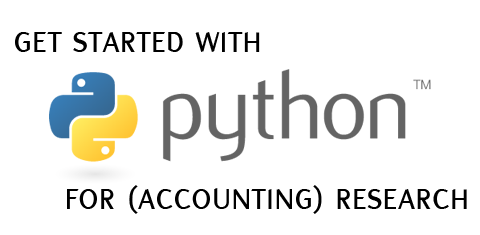
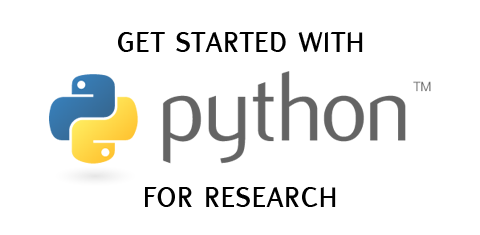
Worked on the readme

diff --git a/README.md b/README.md
@@ -1,6 +1,5 @@
 <h1 align="center">
-   <img src="https://i.imgur.com/LZ4s3zS.png" alt="Python Accounting Research" title="Python Accounting Research GitHub" />
-  <br>
+   <img src="https://i.imgur.com/KZGIDj0.png" alt="Get started with Python for Research" title="Get started with Python for Research" />
 </h1>
 <p align="center">  
  <a href="https://gitter.im/TiesdeKok/PythonAccountingResearch"><img src="https://badges.gitter.im/array-mixer/Lobby.svg"></a>
@@ -11,7 +10,7 @@
 <p align="center">
   Want to learn how to use <strong>Python for (Accounting) Research</strong>? <br>
   This repository has everything that you need to get started! <br><br>
-  <strong>Author:</strong> Ties de Kok (<a href="http://www.TiesdeKok.com">Personal Page</a>)
+  <span style='font-size: 15pt'><strong>Author:</strong> Ties de Kok (<a href="http://www.TiesdeKok.com">Personal Page</a>)</span>
 </p>
 
 ## Table of contents
@@ -24,65 +23,218 @@
   	 * [Jupyter Notebook](#jupyter)
   	 * [Installing packages](#packages)
   * [Tutorial Notebooks](#notebooks)
-     * [Python Basics](#0_python_basics.ipynb)
-     * [Opening files with Python](#0_python_basics.ipynb)
-     * [Handling data with Python](#0_python_basics.ipynb)
-     * [Visualizing data with Python](#0_python_basics.ipynb)
-     * [Web scraping with Python](#0_python_basics.ipynb)
+  	* [Exercises](#exercises)
   * [Code along](#codealong)
      * [Binder](#binder)
      * [Clone repository](#clonerepo)
-  * [Exercises](#exercises)
+  * [Questions](#questions)
   * [License](#license)
   * [Special thanks](#specialthanks)
 
 <h2 id="introduction">Introduction</h2>
 
-This is where the introduction will go. 
+The goal of this GitHub page is to provide you with everything you need to get started with Python for actual research projects.   
+
 <h4 id="audience">Who is this repository for?</h4>
+
+The topics and techniques demonstrated in this repository are primarily oriented towards empirical research projects in fields such as Accounting, Finance, Marketing, Political Science, and other Social Sciences. 
+
+However, many of the basics are also perfectly applicable if you are looking to use Python for any other type of Data Science!
 
 <h4 id="howtouse">How to use this repository?</h4>
 
+This repository is written to facilitate learning by doing. 
+
+<span style="text-decoration: underline"> If you are starting from scratch I recommend the following: </span>
+
+1. Familiarize yourself with the [`Getting your Python setup ready`](#setup) and [`Using Python`](#usingpython) sections below
+2. Check the [`Code along!`](#codealong) section to make sure that you can interactivly use the Jupyter Notebooks 
+3. Work through the [`0_python_basics.ipynb`](0_python_basics.ipynb) notebook and try to get a basics grasp on the Python syntax
+4. Do the "Basic Python tasks" part of the [`exercises.ipynb`](exercises.ipynb) notebook
+5. Work through the [`1_opening_files.ipynb`](#), [`2_handling_data.ipynb`](2_handling_data.ipynb), and [`3_visualizing_data.ipynb`](3_visualizing_data.ipynb) notebooks.  
+   **Note:** the [`2_handling_data.ipynb`](2_handling_data.ipynb) notebook is very comprehensive, feel free to skip the more advanced parts at first.  
+6. Do the "Data handling tasks (+ some plotting)" part of the [`exercises.ipynb`](exercises.ipynb) notebook
+
+If you are interested in web-scraping:
+
+7. Work through the [`4_web_scraping.ipynb`](4_web_scraping.ipynb) notebook
+8. Do the `Web scraping` part of the [`exercises.ipynb`](exercises.ipynb) notebook
+
+<span style="text-decoration: underline"> If you are already familiar with the Python basics: </span>
+
+Use the notebooks provided in this repository selectively depending on the types of problems that you try to solve with Python.
+
+Everything in the notebooks is purposely sectioned by the task description. So if you, for example, are looking on how to merge two Pandas dataframes together, you can use the `Combining dataframes` section of the [`2_handling_data.ipynb`](#) notebook as a great starting point. 
 
 
 <h2 id="setup">Getting your Python setup ready</h2>
 
-Anaconda instructions will go here.
+There are multiple ways to setup your Python setup. To keep things simple I will only provide you with what I believe to be the best and easiest way to get started: download the Anaconda distribution. 
 
-Which Python version to get? -> Python 3.6
+<h4 id="anaconda">Anaconda Distribution</h4>
+
+The Anaconda Distribution bundles Python with a large collection of Python packages from the (data) science Python eco-system.  
+
+By installing the Anaconda Distribution you essentially obtain everything you need to get started with Python for Research!
+
+<h5 id="anacondainstall">Install Anaconda</h5>
+
+ 1. Go to [anaconda.com/download/](https://www.anaconda.com/download/) 
+ 2. Download the **Python 3.6 version** installer
+ 3. Install Anaconda. A couple of notes:
+ 	* For a first install, I recommend ticking the boxes to make it your primary installation and adding it to your path.
+ 	* It is worth to take note of the installation directory in case you ever need to find it again.
+ 4. Check if the installation work by launching a command prompt (terminal) and type `python`, it should Anaconda at the top.
+ 	* On Windows I recommend using the `Anaconda Prompt` 
+
+*Note:* Anaconda also comes with the `Anaconda Explorer`, I haven't personally used it yet but it might be convenient. 
+
+<h5 id="pythonversion">Python 3 vs Python 2?</h5>
+
+Python 3.x is the newer and superior version over Python 2.7 so I strongly recommend to use Python 3.x (Python 3.6) whenever possible.
+
+The only reason to occasionaly use Python 2.7 would be if you are "forced" to (i.e. there is a package that you have to use but that is not yet updated to work with Python 3). In this unlikely scenario I would recommend to just install Python 2.7 alongside Python 3.6, and only use Python 2.7 when you really have to. 
 
 <h2 id="usingpython">Using Python</h2>
 
+**Basic methods:**  
+The native way to run Python code is by saving the code to a file with the ".py" extension and executing it from the console / terminal:
+
+```python code.py```
+
+Alternatively, you can run some quick code by starting a python or ipython interactive console by typing either `python` or `ipython` in your console / terminal.
+
 <h4 id="jupyter">Jupyter Notebook</h4>
 
-We will use the Jupyter Notebook, instructions are here.
+The above is, however, not very convenient for research purposes as we desire easy interactivity and good documentation options.  
+Fortunately, the awesome **Jupyter Notebooks** provide a great alterantive way of using Python for research purposes. 
 
-<h4 id="jupyter">Installing Packages</h4>
+[Jupyter](http://jupyter.org/) comes pre-installed with the Anaconda distribution so you should have everything already installed and ready to go. 
 
-You can install packages using `pip`:
+***What is the Jupyter Notebook?***
 
-`pip install ipystata`
+From the [Jupyter](http://jupyter.org/) website:
+> The Jupyter Notebook is an open-source web application that allows you to create and share documents that contain live code, equations, visualizations and explanatory text. 
+
+In other words, the Jupyter Notebook allows you to program Python code straight from your browser!
+
+***How does the Jupyter Notebook work in the background?***
+
+The diagram below sums up the basics components of Jupyter:
+
+<img src="https://i.imgur.com/1zFzbyw.png" title="Jupyter Notebook" width = 400px/>
+
+At the heart there is the *Jupyter Server* that handles everything, the *Jupyter Notebook* which is accessed and used through your browser, and the *kernel* that executes the code. We will be focussing on the natively included *Python Kernel* but Jupyter is language agnostic so you can also use it with other languages/software such as 'R'.
+
+It is worth noting that in most cases you will be running the `Jupyter Server` on your own computer and will connect to it locally in your browser (i.e. you don't need to be connected to the internet). However, it is also possible to run the Jupyter Server on a different computer, for example a high performance computation server in the cloud, and connect to it over the internet.
+
+***How to start a Jupyter Notebook?***
+
+The primary method that I would recommend to start a Jupyter Notebook is to use the command line (terminal) directly:
+
+1. Open your command prompt / terminal (on Windows I recommend the Anaconda Prompt)
+2. `cd` (i.e. Change) to the desired starting directory   
+   for example: `cd "C:\Files\Work\Project_1"`  
+   *Note:* if you are changing do folder on another drive you might have to also switch drives by typing, for example, `E:` 
+4. Start the Jupyter Notebook server by typing: `jupyter notebook` 
+
+This should automatically open up the corresponding Jupyter Notebook in your default browser.
+You can also manually go to the Jupyter Notebook by going to `localhost:8888` with your browser.
+
+***How to close a Jupyter Notebook server?***
+
+If you want to close down the Jupyter Server: open up the command prompt window that runs the server and press `CTRL + C` twice.   
+Make sure that you have saved any open Jupyter Notebooks!
+
+***How to use the Jupyter Notebook?***
+
+I recommend to watch this excellent YouTube video: [Awesome Data Science: 1.0 Jupyter Notebook Tour
+](https://www.youtube.com/watch?v=e9cSF3eVQv0)
+
+*Some shortcuts are worth mentioning for reference purposes:*
+
+`command mode` --> enable by pressing `esc`   
+ `edit mode` --> enable by pressing `enter`   
+
+|  `command mode` |`edit mode` 	| `both modes`
+|---	|---	|---
+|  `Y` : cell to code	|  `Tab` : code completion or indent | `Shift-Enter` : run cell, select below
+| `M` : cell to markdown  |   `Shift-Tab` : tooltip | `Ctrl-Enter` : run cell 
+| `A` : insert cell above  	|   	`Ctrl-A` : select all | 
+| `B` : insert cell below  	|   `Ctrl-Z` : undo | 
+| `X`: cut selected cell |   
+
+
+<h4 id="packages">Installing Packages</h4>
+
+The Python eco-system consists of many packages and modules that people have programmed and made available for everyone to use.  
+These packages/modules are one of the things that makes Python so incredibly useful. 
+
+Some packages are natively included with Python and Anaconda, but sometimes you need to install them first before you can import them.  
+I will discuss the three primary methods of installing packages:
+
+**Method 1:** use `pip`
+
+Many packages are available on the "Python Package Index" (i.e. "PyPI"): [https://pypi.python.org/pypi](https://pypi.python.org/pypi)  
+
+You can install packages that are on "PyPI" by using the `pip` command:
+
+Example, install the `requests` package: run `pip install requests` in your command line / terminal (not in the Jupyter Notebook!).
+
+To uninstall you can use `pip uninstall` and to upgrade an existing package you can add the `-U` flag (`pip install -U requests`)
+
+**Method 2:** use `conda`
+
+Sometimes when you try something with `pip` you get a compile error (especially on Windows). You can try to fix this by configuring the right compiler but most of the times it is easier to try to install it directly via Anaconda as these are pre-compiled. For example:
+
+`conda install scipy`
+
+Full documentation is here: [Conda documentation](https://conda.io/docs/user-guide/tasks/manage-pkgs.html)
+
+**Method 3:** install directly using the `setup.py` file
+
+Sometimes a package is not on pypi and conda (you often find these packages on GitHub). Follow these steps to install those:
+
+1. Download the folder with all the files (if archived, make sure to unpack the folder)
+2. Open your command prompt (terminal) and `cd` to the folder you just downloaded
+3. Type: `python setup.py install`
 
 <h2 id="notebooks">Tutorial Notebooks</h2>
 
-* `0_python_basics.ipynb` notebook.
-* `1_opening_files.ipynb` notebook.
-* `2_handling_data.ipynb` notebook.
-* `3_visualizing_data.ipynb` notebook.
-* `4_web_scraping.ipynb` notebook.
+This repository currently contains the follow elements:
+
+* `0_python_basics.ipynb`: Basics of the Python syntax
+* `1_opening_files.ipynb`: Examples on how to open Txt, CSV, Excel, Stata, Sas, JSON, and HDF files. 
+* `2_handling_data.ipynb`: A comprehensive overview on how to use the `Pandas` library for data wrangling.
+* `3_visualizing_data.ipynb`: Examples on how to generate visualizations with `Pandas`, `Seaborn`, and `Bokeh`.
+* `4_web_scraping.ipynb`: A comprehensive overview on how to use `Requests`, `LXML`, and `Selenium` for APIs and web scraping.
+
+<h4 id="exercises">Exercises</h4>
+
+I have provided several tasks / exercises that you can try to solve in the `exercises.ipynb` notebook.
 
 
 <h2 id="codealong">Code along!</h2>
 
 You can code along in two ways:
 
-<h4 id="binder">1) use Binder</h4>
+<span style='font-size : 15pt' id="binder"><strong>Option 1:</strong> use Binder</span>
 
-<h4 id="clonerepo">2) clone the repository and run locally</h4>
+To be added. 
 
-<h2 id="exercises">Exercises</h2>
+<span style='font-size : 15pt' id="clonerepo"><strong>Option 2:</strong> clone repository</span>
 
-The exercises are in the `exercises.ipynb` notebook.
+You can essentially "download" the contents of this repository by cloning the repository. 
+
+You can do this by clicking "Clone or download" button and then "Download ZIP":
+
+<img src="https://i.imgur.com/Ysak4s3.png" title="Jupyter Notebook" width = 300px/>
+
+If you extract the downloaded ZIP to a folder you can start the Jupyter Notebook in that folder and access the notebooks.
+
+<h2 id="questions">Questions?</h2>
+
+If you have questions or experience problems please use the `issues` tab of this repository.
 
 <h2 id="license">License</h2>
 
